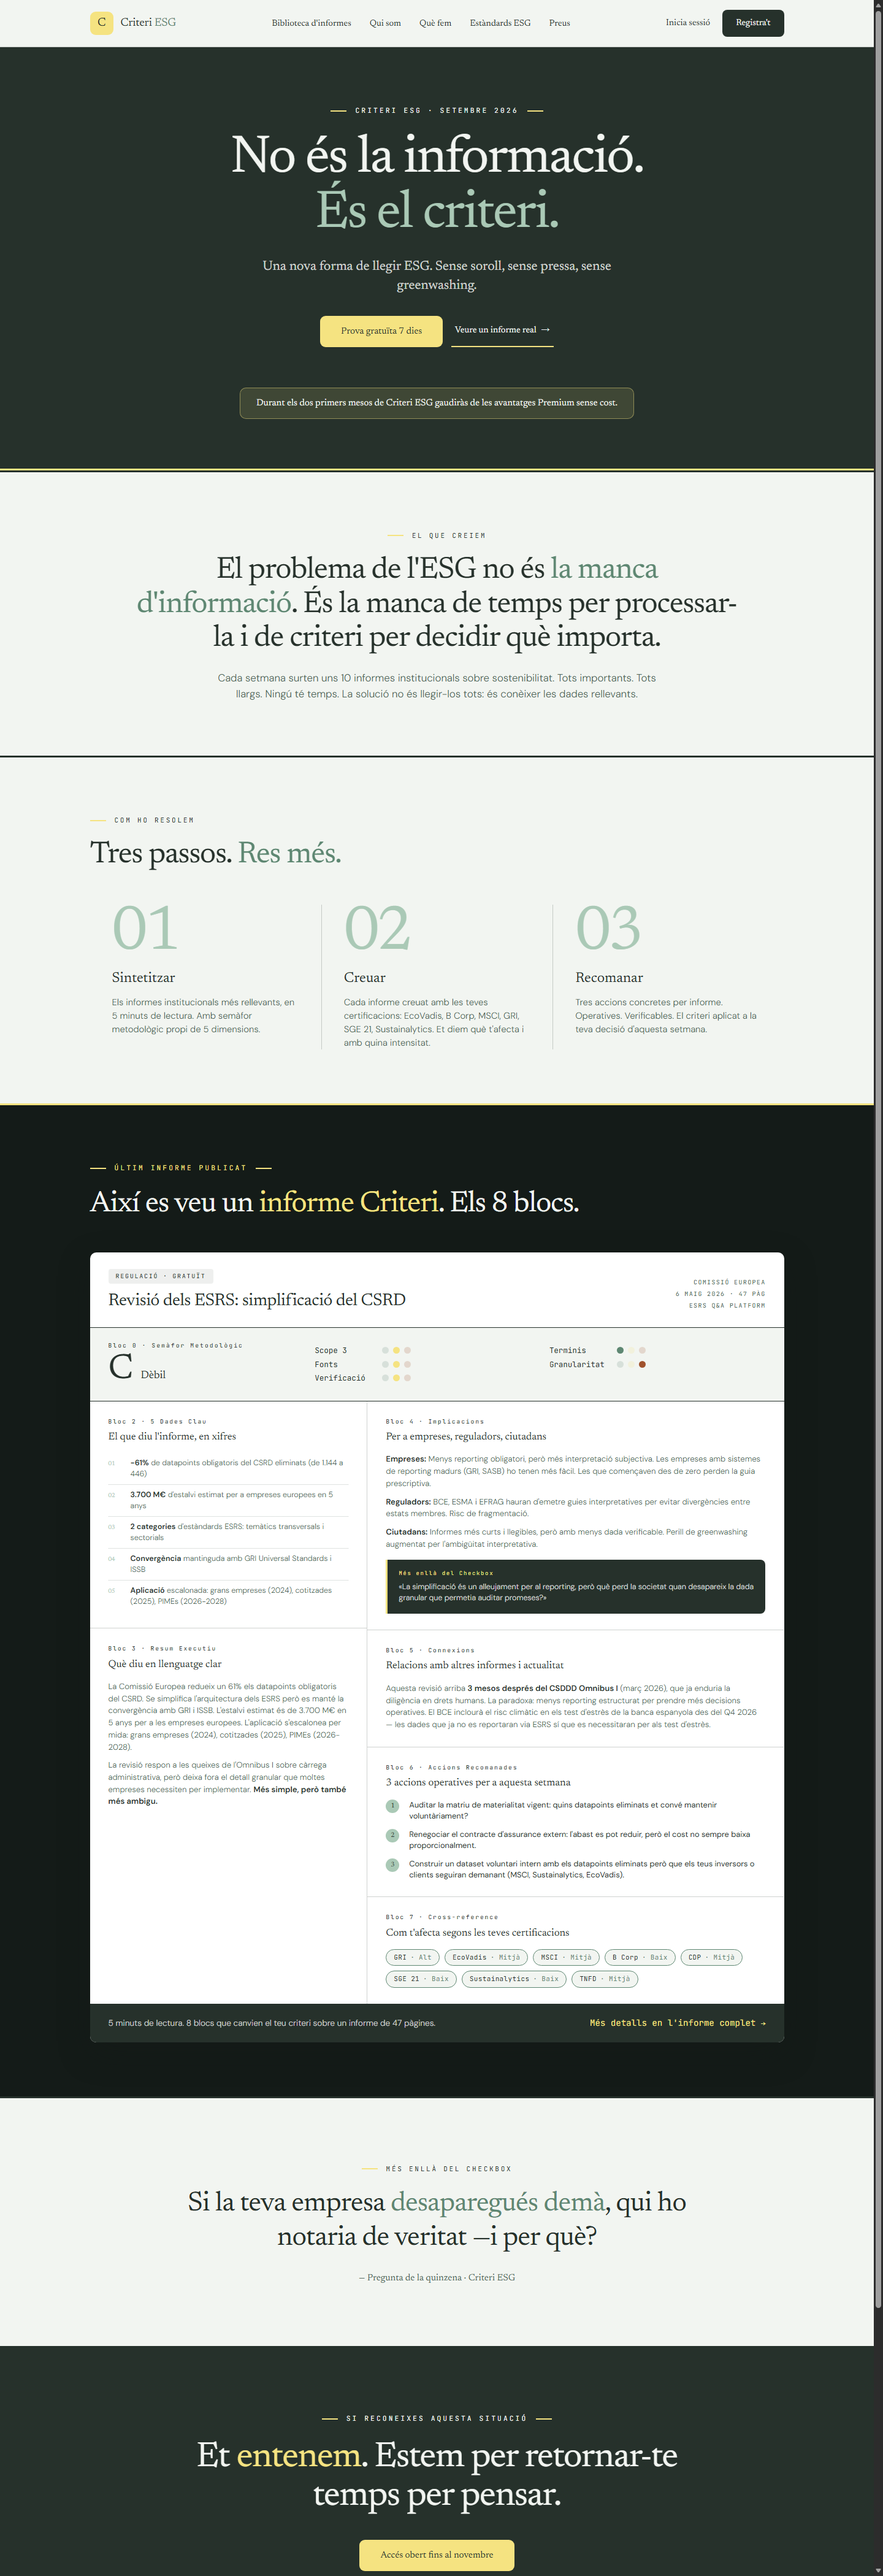
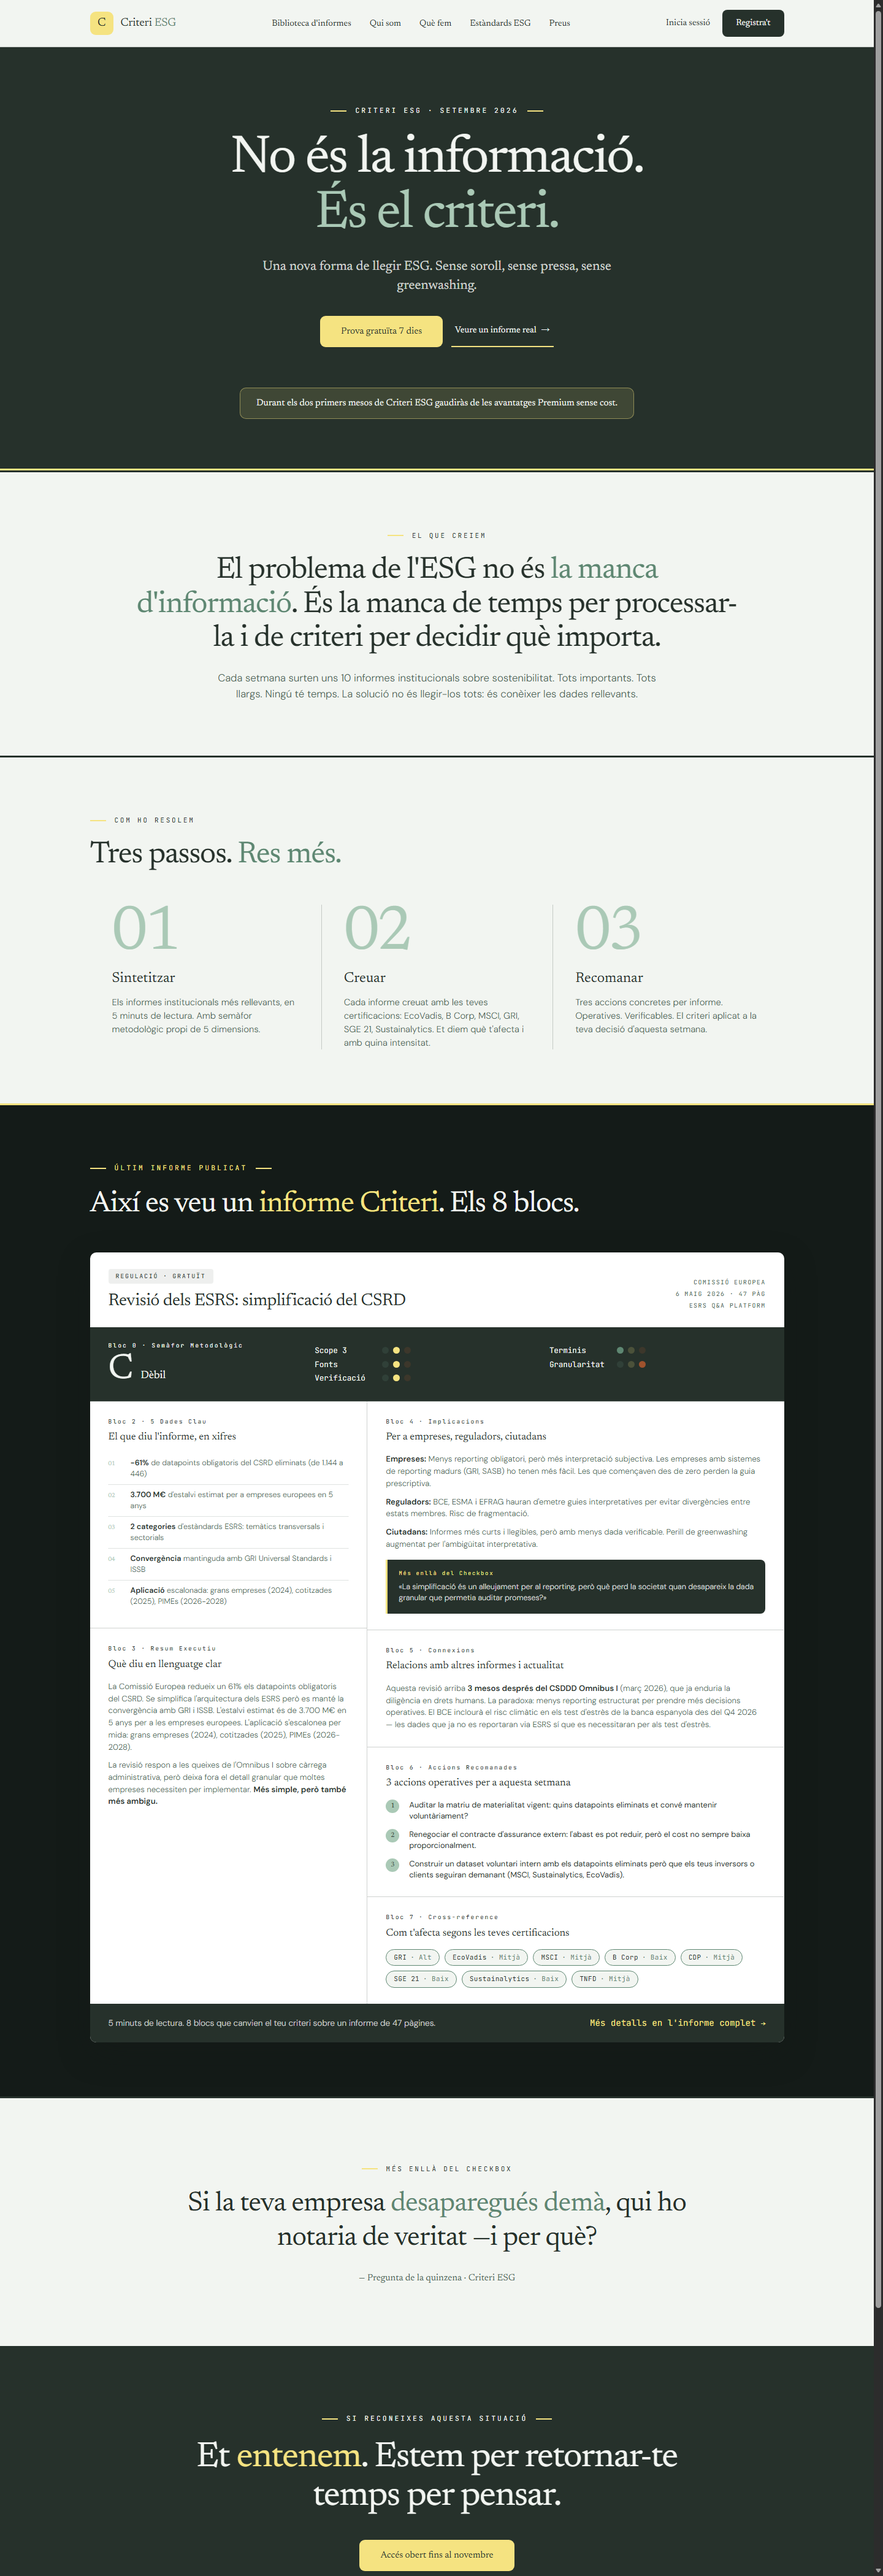
style: salvia v8 - bloc 0 (semàfor) amb fons verd fosc i lletres clares com la landing

Changed region(s): [[0.0938, 0.499, 0.9062, 0.5614]]

diff --git a/assets/redisseny-web/mockup-homepage-paleta-salvia.html b/assets/redisseny-web/mockup-homepage-paleta-salvia.html
@@ -216,16 +216,16 @@
   .paper-meta { text-align: right; font-size: 0.62rem; font-weight: 400; letter-spacing: 0.14em; text-transform: uppercase; color: var(--ink-soft); line-height: 1.9; }
 
   .semafor {
-    background: var(--bg); color: var(--ink);
+    background: var(--ink); color: var(--bg);
     display: grid; grid-template-columns: minmax(190px, 0.9fr) minmax(0, 2.2fr); gap: 16px 36px;
     align-items: center;
     padding: 22px 30px;
-    border-bottom: 1px solid var(--ink);
+    border-bottom: 1px solid rgba(242, 245, 241, 0.2);
   }
-  .semafor .label { font-size: 0.6rem; font-weight: 400; letter-spacing: 0.22em; color: var(--ink); }
+  .semafor .label { font-size: 0.6rem; font-weight: 400; letter-spacing: 0.22em; color: var(--bg); }
   .semafor .grade-row { display: flex; align-items: baseline; gap: 14px; margin-top: 6px; }
-  .semafor .grade { font-size: 3.6rem; font-weight: 400; color: var(--ink); line-height: 0.95; letter-spacing: -0.03em; }
-  .semafor .grade-label { font-size: 1.1rem; font-weight: 400; color: var(--ink); }
+  .semafor .grade { font-size: 3.6rem; font-weight: 400; color: var(--bg); line-height: 0.95; letter-spacing: -0.03em; }
+  .semafor .grade-label { font-size: 1.1rem; font-weight: 400; color: var(--bg); }
   .dims { display: grid; grid-template-columns: repeat(2, minmax(0, 1fr)); gap: 5px 30px; }
   .dim { display: grid; grid-template-columns: 100px 1fr; align-items: center; gap: 10px; }
   .dim .dname { font-size: 0.78rem; font-weight: 400; }
